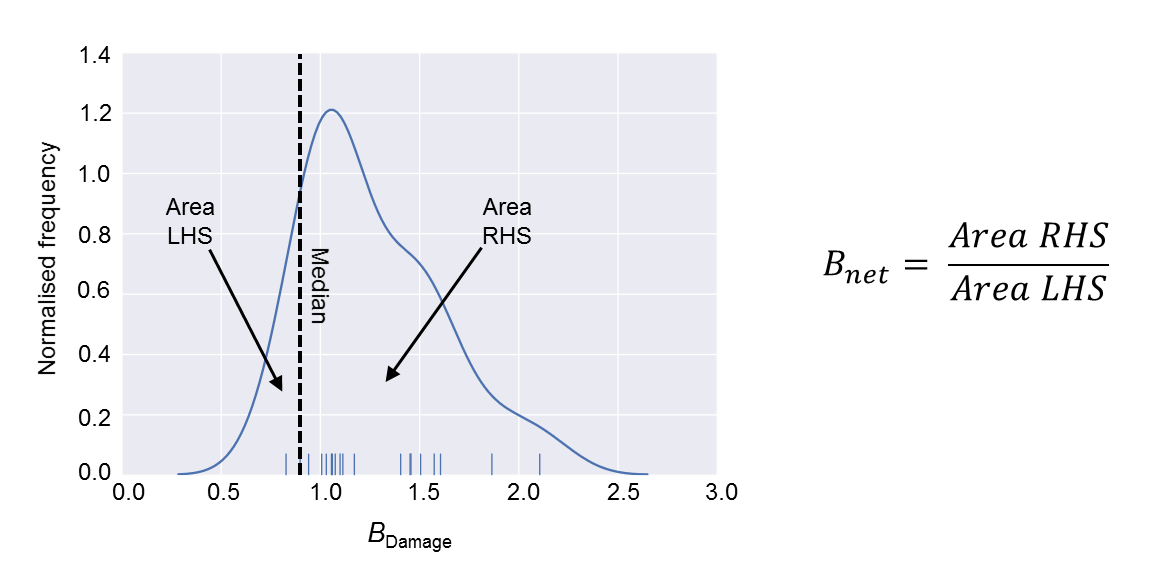
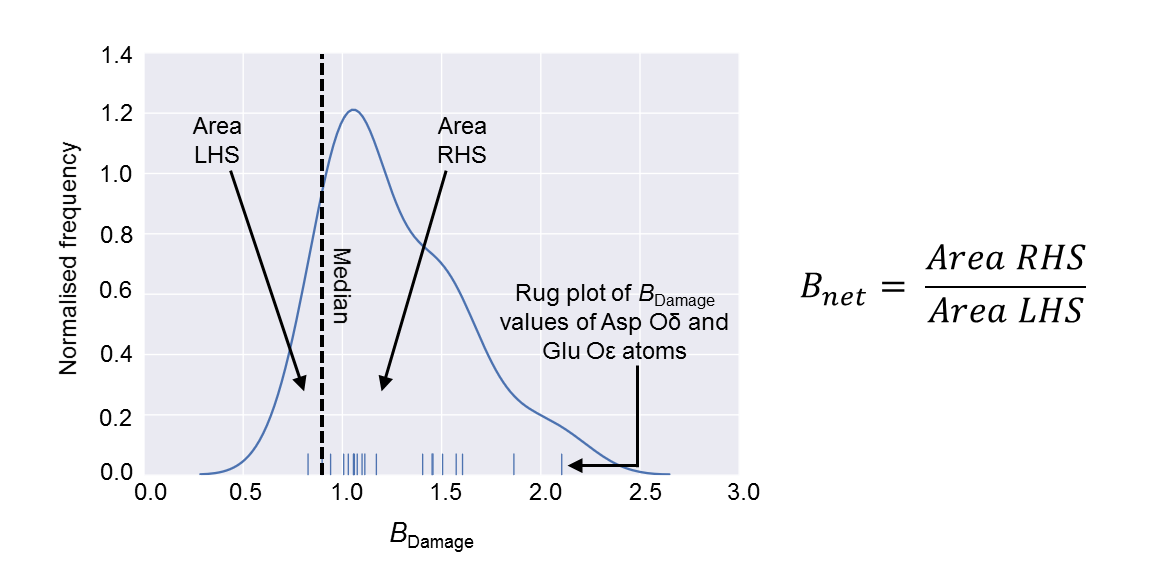
Updating README

diff --git a/README.md b/README.md
@@ -54,7 +54,7 @@ The method of calculating the *B*<sub>net</sub> value for a protein structure is
 ___
 
 ![Images/Bnet_calculation.png](Images/Bnet_calculation.png)
-
+The *B*<sub>net</sub> metric is calculated as the ratio of the area either side of the median (of the overall *B*<sub>Damage</sub> distribution) underneath a kernel density estimate of the *B*<sub>Damage</sub> values of the terminal oxygen atoms of Glu and Asp residues.
 ___
 
 RABDAM calculates the values of the *B*<sub>Damage</sub> and *B*<sub>net</sub> metrics for a standard format PDB file, as detailed in the following sections.
